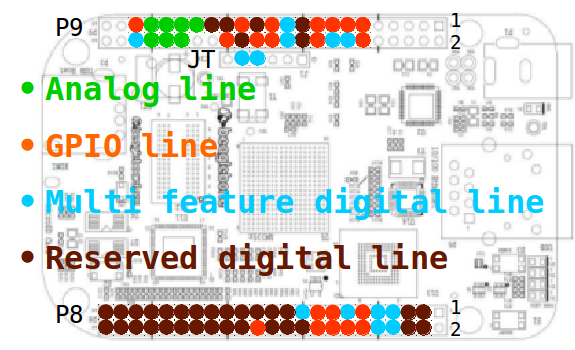
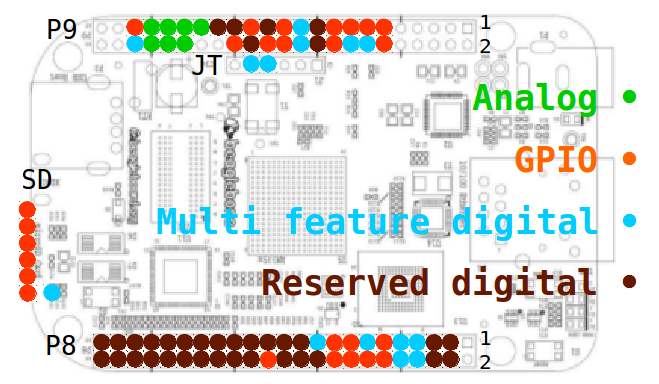
added: SD pins to PINS.odg image

diff --git a/src/doc/_3_pins.md b/src/doc/_3_pins.md
@@ -7,27 +7,34 @@ pins. That is 92 pins in total. Most of them have input / output
 capabilities, while just a few are related to other features (such as
 RESET, GND or power supply lines). Input / output pins are either
 analog or digital lines, free or unfree (used by the system in default
-configuration). All can get controled by \Proj.
+configuration). All input / output pins can get controlled by \Proj, as
+well as further pins on the J1 header and the SD card slot. And it can
+also controll internal lines, not wired to any connector (example \ref
+sSecExaSos demonstrates that).
 
 Analog lines always operate as input. In contrast, digital lines can
 either operate as input or output. Some digital lines have several
 features at the same pin and need to get configured to the matching
 mode before usage (pinmuxing). In addition, some lines are used to
 control the boot sequence and mustn't be connected at boot-time. Others
-are reserved to be used by the system (e. g. for HDMI or MCASP), but
-they can get freed by massive re-configuration of the boot sequence, so
-that you can use them. Some header pins are connected to two CPU balls
-(and both CPU balls must not be set in contrary output states, in order
-to avoid hardware damages).
+are reserved to be used by the system (ie. for HDMI or MCASP), but they
+can get freed by re-configurations of the boot sequence, so that you
+can use them. Some header pins are connected to two CPU balls (and both
+CPU balls must not be set in contrary output states, in order to avoid
+hardware damages). It's beyond the scope of this documentation to cover
+all details. Find further information in the SRM (system reference
+manual) shipped with your board.
 
 Here's an overview of the Beaglebone Black default configuration. The
 settings for other Beaglebones (White, Green, Blue, Pocket-, ...) are
-different. \Proj can operate on all colored pins
+different. The colored pins by default are free for \Proj operations:
 
 ![Header pins controllable by libpruio](pins.png)
 
-This section explains the different functions the header pins can work
-in and gives detailed information about the limits.
+This section explains the different features available on the header
+pins, and serves detailed information about the limits. In the second
+section \ref SecPinmuxing you'll learn how to get a pin in the desired
+mode.
 
 
 # Analog # {#SecAnalog}
@@ -477,7 +484,7 @@ Find example code in qep.bas.
 
 At boot time the operating system sets all pins in a save mode. You can
 output the default settings by executing the example
-[analyse.bas](sSecExaAnalyse) after power on reset.
+\ref sSecExaAnalyse after power on reset.
 
 When you use a header pin in your code, \Proj first checks its mode,
 and just continues in case of a match. Otherwise action is necessary to
